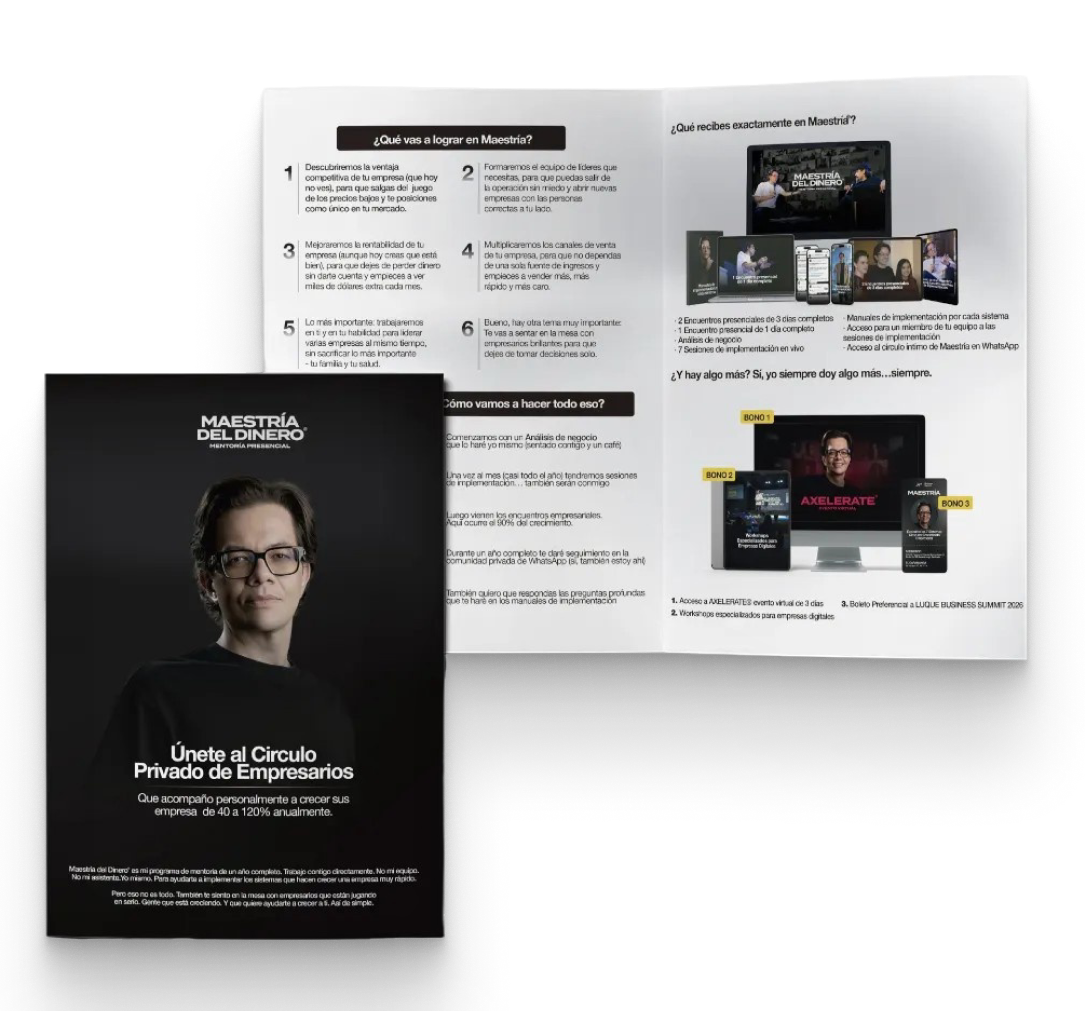
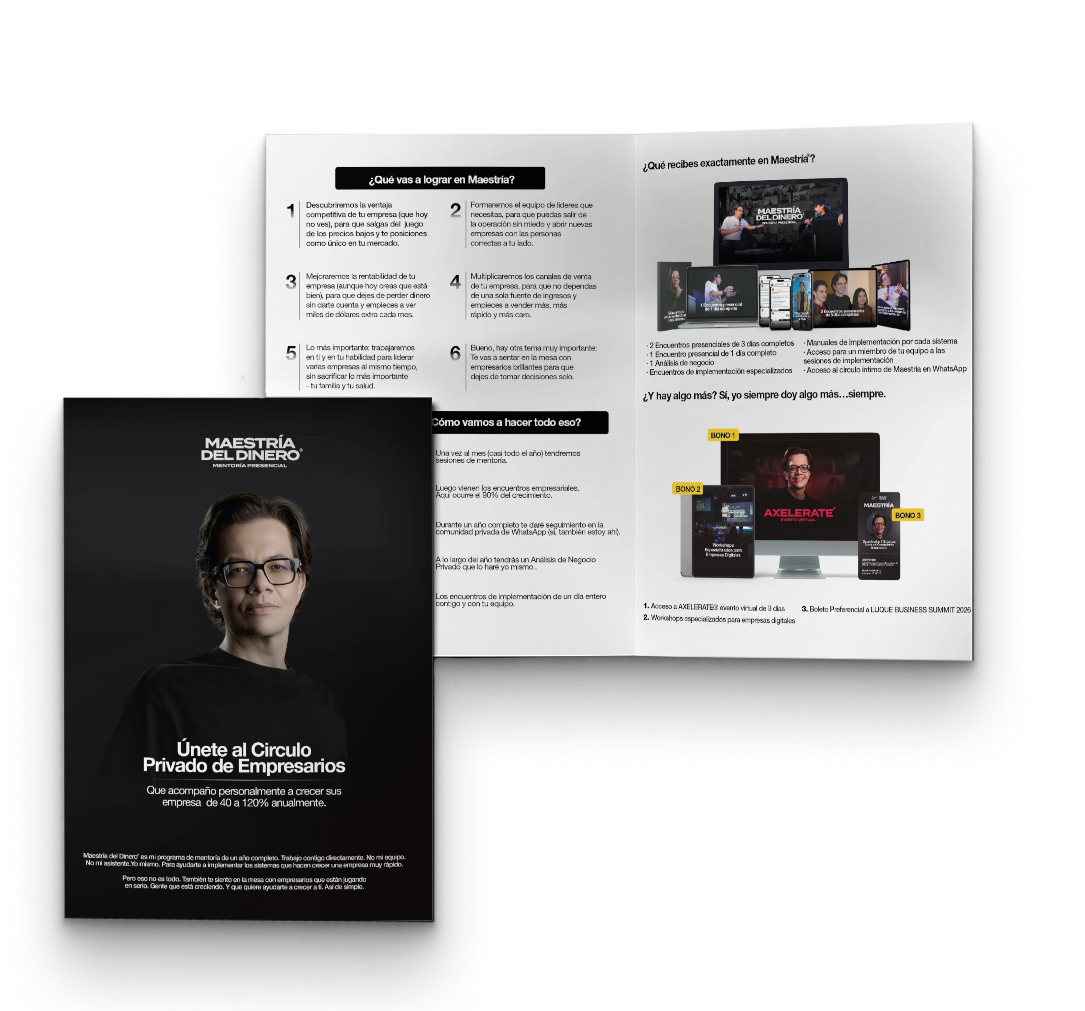
Fix: actualización recursos diptico

Changed region(s): [[0.0304, 0.0613, 0.9733, 0.9812]]

diff --git a/src/components/asesor/Asesor.vue b/src/components/asesor/Asesor.vue
@@ -90,7 +90,7 @@ const handleDipticoClick = () => {
         <div class="button-group">
 
           <a
-            href="https://assets.cdn.filesafe.space/vNTl04SMXRMV7I4CYfsP/media/69b3f9c9cab7f7ad41a6d7c5.pdf"
+            href="https://assets.cdn.filesafe.space/vNTl04SMXRMV7I4CYfsP/media/69b489d0eba487331d332fe5.pdf"
             class="hero-btn"
             target="_blank"
             rel="noopener noreferrer"
